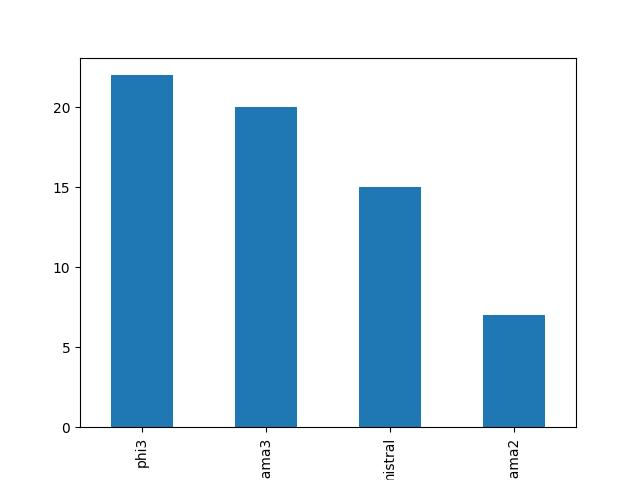
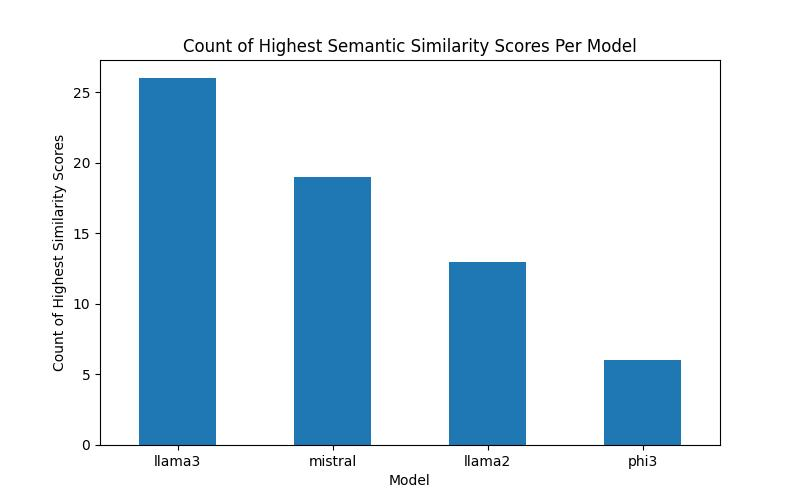
add metrics for base q and start of metrics for custom

diff --git a/report/report.tex b/report/report.tex
@@ -158,8 +158,8 @@ Our implementation is available on github (\cite{github}).
 \subsection{Base Questions}
 This section provides an analysis of the results from our four models applied to the Zara and $H\&M$ reports, using the ground truth established by ChatGPT-4o.
 The discussion is organized into four parts: first, we examine the issue of unanswered questions; 
-next, we evaluate the decision-making processes; then, we review the cited source pages; and finally, 
-we analyze the disclosed indicators.
+next, we evaluate the decision-making processes; then, we review the cited source pages; 
+we analyze the disclosed indicators; and finally, we take a look at the LLM metrics.
 \subsubsection{Zara}
 \textbf{Missing Data:} An analysis of missing responses reveals that both the Llama3 and 
 Mistral models failed to answer six questions each compared to the one from the ChatGPT-4o model.
@@ -209,10 +209,10 @@ consistent between the two models. A similar observation applies to the comparis
 \newline\newline
 
 \textbf{Answer Similarity:} 
-In this section, we compare the generated answers to the ground truth answers provided by the ChatGPT-4o model using TFIDF and
-cosine similarity.
-The analysis shows that the Llama3 model achieves the highest count of questions where it is most similar to the ground truth, with a total of 23 questions.
-The second position is held by the phi3 model with 16 questions, followed by llama2 with 13 questions, and mistral with 12 questions.
+In this section, we compare the generated answers to the ground truth responses from the ChatGPT-4o model using a LLM-based metric that relies on cosine simularity.  
+
+We begin by comparing the number of questions where each model achieved the highest score. Llama3 dominates with 53 questions, 
+followed by Mistral with 5, Llama2 with 4, and Phi3 with 2.
 
 \begin{figure}[H]
     \centering
@@ -221,24 +221,46 @@ The second position is held by the phi3 model with 16 questions, followed by lla
     \label{fig:image_label}
 \end{figure}
 
-Furthermore, Llama3 also ranks highest in average similarity, achieving $49\%$ average similarity. This is followed by phi3 at $47\%$, mistral at $45\%$, and finally, llama2 at $44\%$.
+Furthermore, Llama3 also ranks highest in average similarity, achieving $85\%$ average similarity. This is followed by Mistral at $81.6\%$, Llama2 at $81\%$, and finally, Phi3 at $79\%$.
 
 \begin{center}
     \begin{tabular}{||c c||} 
      \hline
-     \textbf{Model} & \textbf{Average Simularity}  \\ [0.5ex] 
+     \textbf{Model} & \textbf{Average Simularity (LLM)}  \\ [0.5ex] 
      \hline
-     Llama3 & 0.489030 \\ 
+     Llama3 & 0.852544\\ 
      \hline
-     Phi3 & 0.466919  \\
+     Mistral & 0.816881\\ 
      \hline
-     Mistral & 0.450250 \\ 
+     Llama2 & 0.810437 \\
      \hline
-     Llama2 & 0.435199  \\
+     Phi3 & 0.798742\\
      \hline
     \end{tabular}
 \end{center}
-    
+
+\textbf{Faithfulness:}
+Surprisingly, Llama2 achieves the highest faithfulness score, with 58 questions classified as faithful. 
+Llama3 comes next with 50, closely trailing Mistral, while Phi3 ranks last with just over 35.
+\begin{figure}[H]
+    \centering
+    \includegraphics[width=0.8\textwidth]{./images/faith_zara.png}
+    \caption{Faithfulness scores}
+    \label{fig:image_label}
+\end{figure}
+
+\textbf{Context relevancy:}
+TODO
+
+\textbf{Correctness:}
+Llama3 emerges as the clear winner, with all scores being either 4 or 4.5, and the highest number of 4.5 ratings. Phi3 and Mistral perform similarly, though Phi3 demonstrates greater consistency. 
+Llama2 ranks the lowest, with the fewest 4.0 scores and a higher occurrence of lower ratings.
+\begin{figure}[H]
+    \centering
+    \includegraphics[width=0.8\textwidth]{./images/correct_zara.png}
+    \caption{Correctness scores}
+    \label{fig:image_label}
+\end{figure}
 
 \subsubsection{H$\&$M}
 \textbf{Missing Data:} An analysis of the $H\&M$ missing responses shows that the Mistral model failed to answer 
@@ -280,9 +302,7 @@ Meanwhile, the Mistral model continues to maintain an approximately 50-50 respon
 \newline\newline
 
 \textbf{Answer Similarity:} 
-The analysis shows that the Phi3 model achieves the highest count of questions where 
-it is most similar to the ground truth for the $H\&M$ data, with a total of 22 questions. The second position is held by the Llama3 
-model with 20 questions, followed by mistral with 15 questions, and Llama2 with 7 questions.
+Llama3 achieves the highest score with 26 questions, followed by Mistral with 19, Llama2 with 12, and Phi3 with 6.
 
 \begin{figure}[H]
     \centering
@@ -291,26 +311,45 @@ model with 20 questions, followed by mistral with 15 questions, and Llama2 with 
     \label{fig:image_label}
 \end{figure}
 
-Furthermore, 
-Llama3  ranks highest in average similarity again, 
-achieving $47\%$ average similarity. This is followed by phi3 at $46\%$, mistral at $45\%$, and finally, 
-llama2 at $38\%$.
+Additionally, Llama3 leads in average similarity with 80.4\%, followed closely by Mistral at 80\%, Llama2 at 78.8\%, and Phi3 at 78.7\%.
 
 \begin{center}
     \begin{tabular}{||c c||} 
      \hline
-     \textbf{Model} & \textbf{Average Simularity}  \\ [0.5ex] 
+     \textbf{Model} & \textbf{Average Simularity (LLM)}  \\ [0.5ex] 
      \hline
-     Llama3 & 0.467212 \\ 
+     Llama3 &  0.804408\\
      \hline
-     Phi3 & 0.457428  \\
+     Mistral  & 0.800913\\
      \hline
-     Mistral & 0.450698 \\
+     Llama2 & 0.788172\\
      \hline
-     Llama2 & 0.383788  \\
+     Phi3 &  0.787818 \\
      \hline
     \end{tabular}
 \end{center}
+
+\textbf{Faithfulness:}
+Phi3 achieves the highest score, followed by Llama3, then Mistral, with Llama2 ranking last.
+\begin{figure}[H]
+    \centering
+    \includegraphics[width=0.8\textwidth]{./images/faith_hm.png}
+    \caption{Faithfulness scores}
+    \label{fig:image_label}
+\end{figure}
+
+\textbf{Context relevancy:}
+TODO
+
+\textbf{Correctness:}
+Llama3 stands out as the clear winner, delivering the most 4.5 scores and the most consistent answers.  
+Phi3 secures second place with the highest number of 4.0 scores, followed by Mistral, while Llama2 ranks last.
+\begin{figure}[H]
+    \centering
+    \includegraphics[width=0.8\textwidth]{./images/correct_hm.png}
+    \caption{Correctness scores}
+    \label{fig:image_label}
+\end{figure}
 
 \subsection{Scenario Questions}
 In this section, we evaluate the models across two scenarios involving custom questions: 
@@ -318,16 +357,67 @@ the first scenario consists of 10 questions focused on detecting greenwashing,
 while the second scenario includes 6 questions aimed at addressing greenwashing mitigation.
 
 \subsubsection{Greenwashing Detection}
-\textbf{Answer Simularity:} Here we compare the cosine similarity of the ground truth from the ChatGPT-4o model against the other LLMs.
+\textbf{Answer Simularity:} Here we compare the average cosine similarity of the ground truth from the ChatGPT-4o model against the other LLMs.
 For the Zara data, the best-scoring model on average cosine similarity is again Llama3 with $26.2\%$, followed by Mistral with $25.7\%$, Phi3 with $24.8\%$, and Llama2 with $20\%$.  
 When comparing the models on the question count with the highest similarity, we observe a tie between Mistral and Llama3 with 3 questions each, which is not surprising given their close average percentage scores. Surprisingly, Llama2 outperforms Phi3 (2 vs. 1) despite scoring lower on average percentage.\newline  
 For the $H\&M$ data, the Mistral model takes the lead over Llama3 with $23\%$ vs. $22\%$. Phi3 scores higher than Llama2 with $21\%$ vs. $18\%$.  
 Mistral also leads in the number of questions with the highest similarity (3). Surprisingly, Llama2 secures second place with 2 questions, while Llama3 and Phi3 share last place with 1 question each.
 
+\textbf{Faithfulness:}
+For the Zara dataset, Mistral and Llama2 share the top position, each with six counts of 1 and three counts of 3. In contrast, Llama3 and Phi3 tie for last place, both registering five counts of 0 and four counts of 1.  
+
+For the $H\&M$ dataset, Mistral delivers the best performance with eight counts of 1. Llama2 follows in second place with seven counts of 1 and two counts of 0. Phi3 ranks third with five counts of 1 and four counts of 0, while Llama3 comes last, recording four counts of 1 and five counts of 0.
+
+\begin{figure}[H]
+    \centering
+    \begin{minipage}{0.49\textwidth}
+        \centering
+        \includegraphics[width=\textwidth]{./images/faith_zara_scene_det.png}
+        \caption{Correctness scores Zara}
+        \label{fig:faith_zara}
+    \end{minipage}
+    \hfill
+    \begin{minipage}{0.49\textwidth}
+        \centering
+        \includegraphics[width=\textwidth]{./images/faith_hm_scene_det.png}
+        \caption{Correctness scores $H\&M$}
+        \label{fig:faith_hm}
+    \end{minipage}
+\end{figure}
+
+\textbf{Correctness:}
+
+\textbf{Context Relevancy:}
+
 \subsubsection{Greenwashing Mitigation}
 \textbf{Answer Simularity:} For the greenwashing mitigation on the Zara data, surprisingly, the Phi3 model scores the highest on average similarity with $30\%$. In second place is Llama3 with $25\%$, followed by Mistral and Llama2 with $17\%$ and $16\%$, respectively. The Phi3 model also takes a significant lead in the number of questions where it scored the highest, with 5 questions, while Llama3 scored the highest on just one question.\newline  
 For the $H\&M$ data, Llama3 performs slightly better than the Mistral model, scoring $24.9\%$ vs. $24.2\%$, followed closely by the Phi3 model with $23\%$ and, lastly, Llama2 with $18\%$.  
 Interestingly, there is a tie in the number of questions with the highest similarity between Mistral and Llama2, both with 2 questions, while Llama3 and Phi3 each have 1.
+
+\textbf{Faithfulness:}
+For the Zara dataset, Llama3 ranks first with five counts of 1, followed by Llama2 in second place with four counts of 1. Mistral and Phi3 share the last position, each with three counts of 1.  
+
+In the $H\&M$ dataset, the ranking remains similar, but this time, Llama3 and Llama2 tie for first place, while Mistral and Phi3 once again share the last position.
+\begin{figure}[H]
+    \centering
+    \begin{minipage}{0.49\textwidth}
+        \centering
+        \includegraphics[width=\textwidth]{./images/faith_zara_scene_mit.png}
+        \caption{Correctness scores Zara}
+        \label{fig:faith_zara}
+    \end{minipage}
+    \hfill
+    \begin{minipage}{0.49\textwidth}
+        \centering
+        \includegraphics[width=\textwidth]{./images/faith_hm_scene_mit.png}
+        \caption{Correctness scores $H\&M$}
+        \label{fig:faith_hm}
+    \end{minipage}
+\end{figure}
+
+\textbf{Correctness:}
+
+\textbf{Context Relevancy:}
 
 \subsection{Conclusion}
 The evaluation and results highlight notable trends and differences across the four models when applied to both the Zara and $H\&M$ datasets, 
